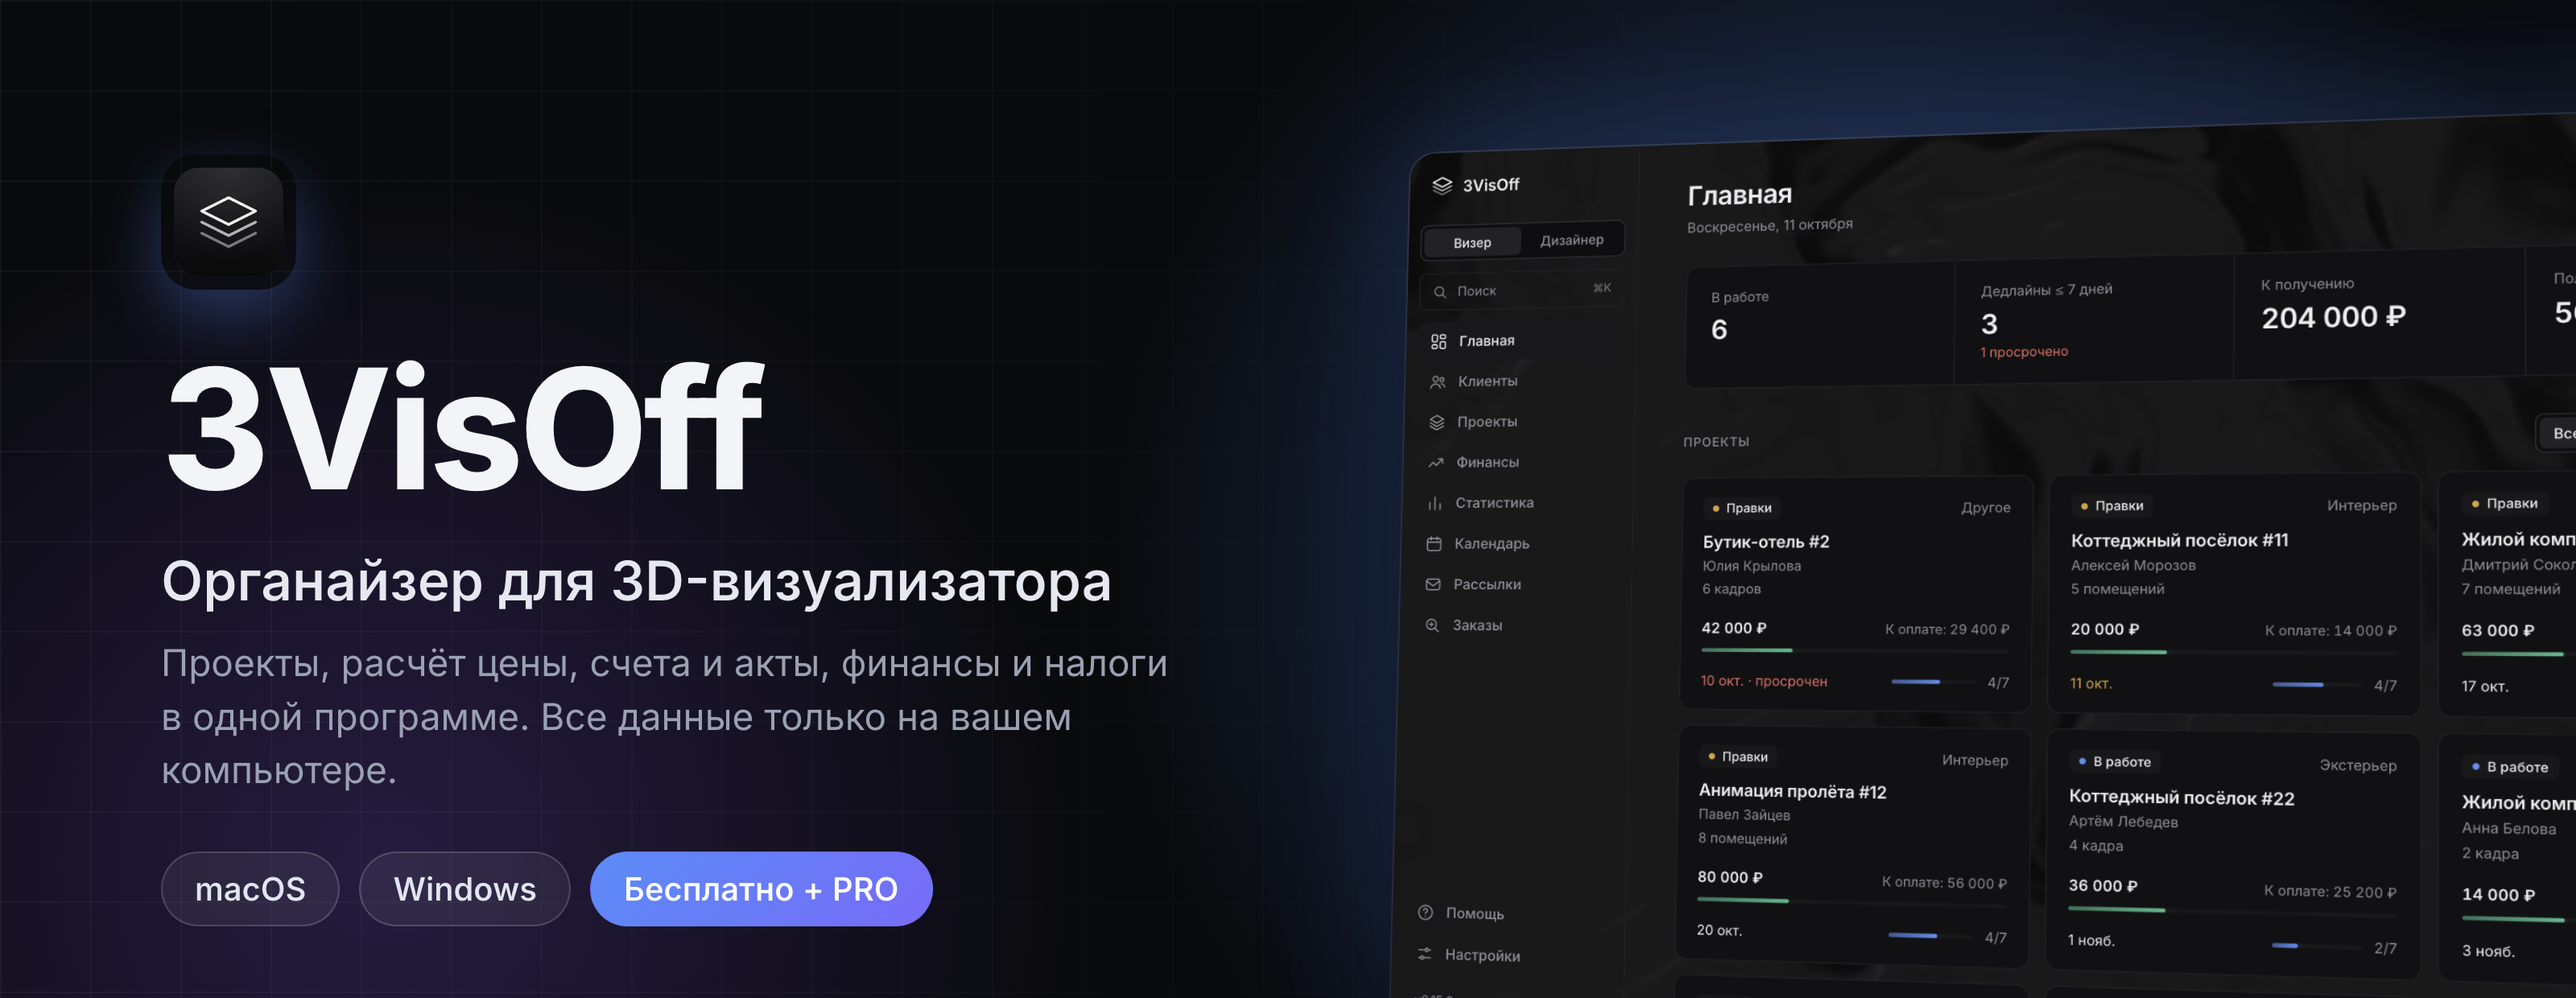
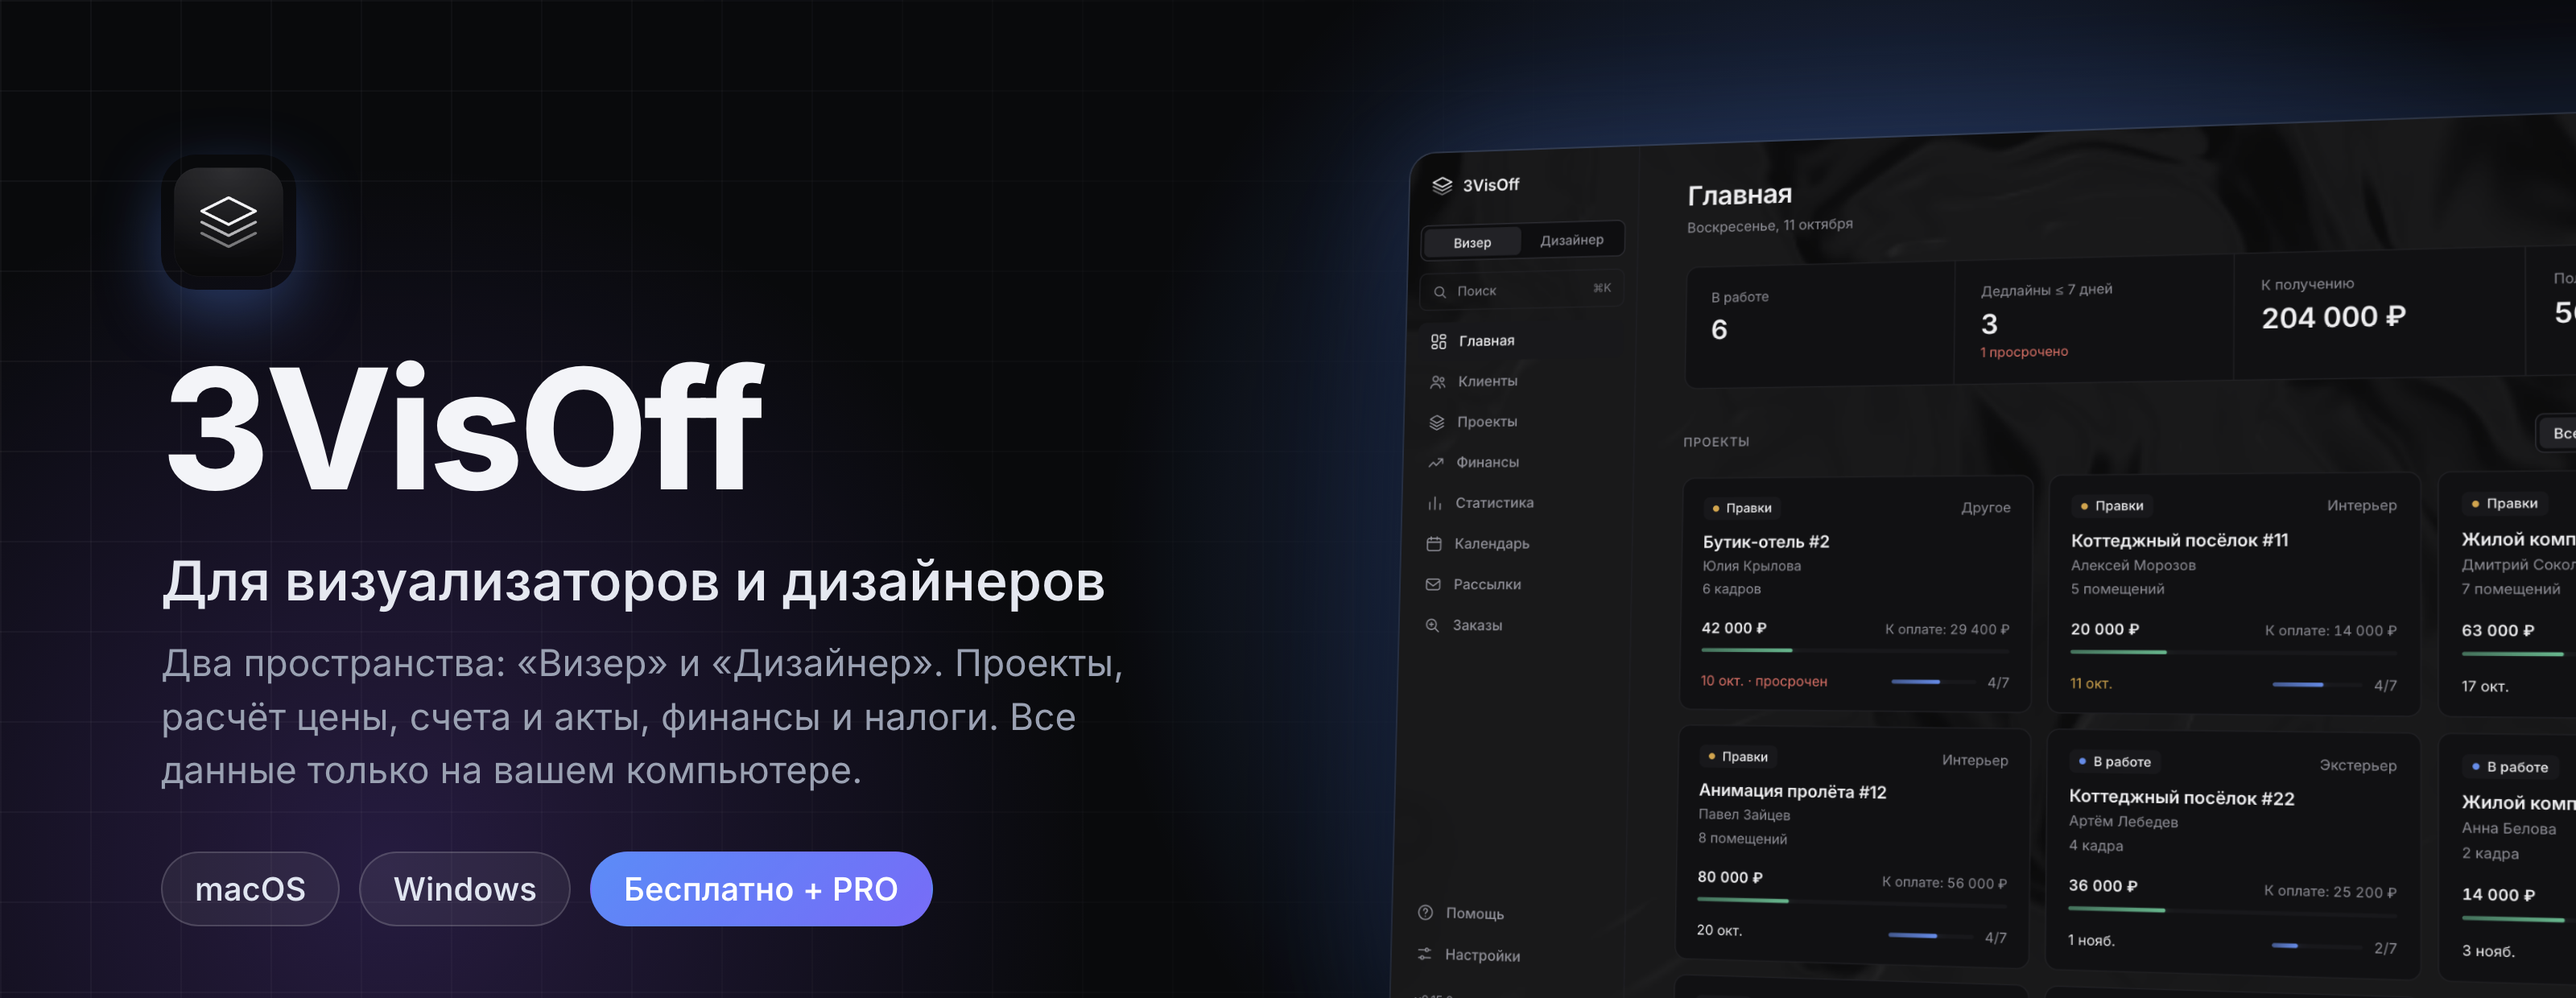
README: описание, что бесплатно, подробности про «Дизайнер», что нового в 0.15.0, английский раздел; обновлены баннер и «Возможности»

Changed region(s): [[0.0625, 0.6435, 0.4688, 0.7355], [0.0625, 0.5516, 0.4375, 0.6129], [0.0625, 0.7661, 0.3438, 0.7968]]

diff --git a/README.md b/README.md
@@ -12,11 +12,25 @@
 
 <br>
 
+**3VisOff** — настольная программа для фрилансеров: **3D-визуализаторов** и **дизайнеров интерьеров**. Проекты и клиенты, расчёт цены, счета и акты, финансы и налоги самозанятого, календарь. Два пространства в одной программе: **«Визер»** и **«Дизайнер»**, переключатель в боковом меню. Все данные хранятся только на вашем компьютере.
+
 ## Возможности
 
 <p align="center">
   <img src="docs/features.png" alt="Возможности: проекты и клиенты, расчёт цены, счета и акты, финансы и налоги, поиск заказов, все данные у вас" width="100%">
 </p>
+
+### Что входит в бесплатную версию
+
+- проекты, клиенты, статусы, сроки, поиск по всему (⌘K / Ctrl+K);
+- расчёт цены: кадры, помещения по площади, срочность, скидка, платные правки;
+- счёт в PDF; пустые бланки акта и договора;
+- финансы: доходы и расходы, статистика, оценка налога самозанятого, обязательства и напоминания, выгрузка в Excel (CSV);
+- календарь с напоминаниями;
+- всё пространство «Дизайнер» (см. ниже);
+- PIN-код, резервные копии и восстановление, светлая, тёмная и чёрно-белая темы, русский и английский интерфейс.
+
+PRO добавляет автоматизацию и интеграции (список [ниже](#что-даёт-pro)).
 
 ## Как это выглядит
 
@@ -41,9 +55,19 @@
 </tr>
 </table>
 
-### Пространство «Дизайнер»
+### Пространство «Дизайнер» (бесплатно)
 
-Отдельное пространство для дизайнеров интерьеров: переключатель «Визер / Дизайнер» в боковом меню. Свои проекты, этапы от брифа до авторского надзора, цена по этапам, график оплат, журнал согласований, ведомость комплектации и бриф клиента. Клиенты, календарь, финансы и настройки общие.
+Отдельное пространство для дизайнеров интерьеров, переключатель «Визер / Дизайнер» в боковом меню. У каждого пространства свои проекты, этапы и расчёт цены; клиенты, календарь, финансы и настройки общие. Любой проект можно показать и в другом пространстве. Если вы пользовались программой раньше, вы остаётесь в «Визере», данные не меняются.
+
+- **План работ по этапам:** бриф, обмеры, планировочные решения, концепция, визуализация, рабочая документация, комплектация, авторский надзор. Этапы с галочками и своими полями; типы проектов «Интерьер», «Экстерьер», «Коммерция».
+- **Цена проекта по этапам**, расчёт за м² и итог одной кнопкой.
+- **График оплат:** «поровну» или «по этапам»; отметка «оплачено» сама создаёт приход в финансах.
+- **Счёт и акт по этапам** в PDF с подписью «Оплачено ранее».
+- **Журнал согласований:** версии, статусы, платные правки, защита от споров «я такого не просил».
+- **Ведомость комплектации:** позиции, поставщики, статусы, процент дизайнера, выгрузка в Excel.
+- **Авторский надзор:** выезды попадают в календарь, чек-лист, оплата за выезд, за месяц или процентом от бюджета ремонта.
+- **Карточка объекта:** адрес, площадь, прораб, помещения.
+- **Бриф клиента:** 22 вопроса, бланк и бриф с ответами в PDF, перенос ответов в карточку объекта.
 
 <p align="center">
   <img src="docs/shot-10-designer-dashboard.png" alt="Пространство «Дизайнер»" width="880">
@@ -68,6 +92,14 @@
 | Рассылки | Холодные рассылки по списку компаний с вашей почты, уведомления об ответах |
 | **Заказы** | Заказы со страницы 3ddd и из писем-уведомлений бирж в вашей почте собираются в один список, мусор убирается |
 | Синхронизация | Одни и те же данные на нескольких компьютерах через облачную папку |
+
+## Что нового в 0.15.0
+
+- Два пространства: «Визер» и «Дизайнер» (подробности выше).
+- Новый внешний вид: тихий «жидкий» фон в цветах темы (отключается в Настройках), плавное переключение пространств, чёрно-белые переключатели и галочки во всех темах.
+- Повторная проверка безопасности, убран обход проверки PRO.
+
+Полный список всех версий: [релизы](https://github.com/AdeptVision3D/3VisOff-releases/releases).
 
 ## PRO и цены
 
@@ -133,11 +165,12 @@ xattr -cr /Applications/3VisOff.app
 
 ## English
 
-**3VisOff** is a desktop organizer for 3D visualizers (freelancers): projects and clients, price calculation (exterior shots, interior rooms by area, urgency, paid revisions), invoices, acts and contracts as PDF, finance and tax estimates for the self-employed, calendar, backups and PIN protection. The interface is available in Russian and English. **All data stays on your computer.**
+**3VisOff** is a desktop organizer for freelance **3D visualizers** and **interior designers**: projects and clients, price calculation (exterior shots, interior rooms by area, urgency, paid revisions), invoices, acts and contracts as PDF, finance and tax estimates for the self-employed, calendar, backups and PIN protection. The interface is available in Russian and English. **All data stays on your computer.**
 
+- **Two spaces in one app:** "Визер" (visualizer) and "Дизайнер" (designer), switched in the sidebar. The designer space is free and includes work stages from brief to author supervision, price per stage, payment schedule, approval log, procurement list, supervision visits in the calendar, object card and a 22-question client brief.
 - Free base version; PRO adds contracts and acts with auto-filled data, sending documents by email, payment QR codes, branded documents, outreach, order search and multi-device sync.
 - PRO price: **$9 / 30 days, $20 / 90 days, $34 / 180 days**, paid in USDT. A 7-day trial key with part of the PRO features is available on request.
-- Download: [latest release](https://github.com/AdeptVision3D/3VisOff-releases/releases/latest) (macOS Apple Silicon and Windows).
+- Download: [latest release](https://github.com/AdeptVision3D/3VisOff-releases/releases/latest) (macOS Apple Silicon and Windows 10/11).
 - macOS: the app is not yet signed by Apple; after installing run `xattr -cr /Applications/3VisOff.app` once, or use *System Settings → Privacy & Security → Open Anyway*.
 - Privacy: see [PRIVACY.md](PRIVACY.md) (in Russian). Client and project data are never sent to the developer.
 - Support: [@visoff_support_bot](https://t.me/visoff_support_bot) on Telegram.
